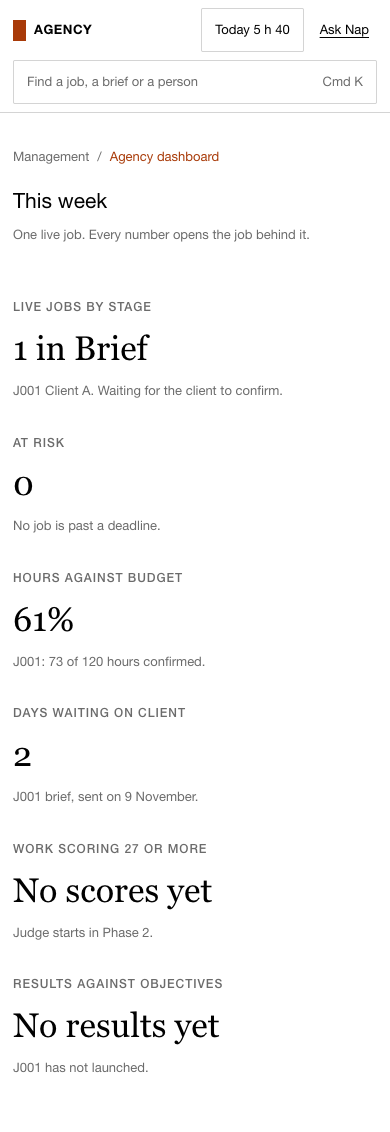
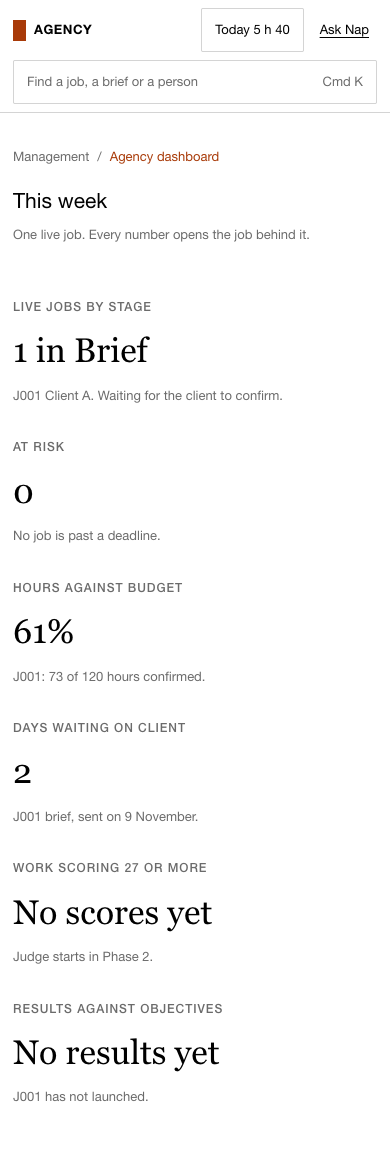
docs: fix the gaps the pre-gate review found
An em dash literal in the design build script, two wrong references, one wrong prior-art path, no-password-sign-in missing from roles-and-homes, tap targets measured on more links, and the commands that were run added to the audit.

diff --git a/docs/design/napkin.css b/docs/design/napkin.css
@@ -94,7 +94,7 @@ ul, ol { list-style: none; }
 
 /* Dashboard: six plain rows. No big number tiles, no decorative charts. Every number is a link. */
 .tiles { display: grid; grid-template-columns: repeat(3, minmax(0, 1fr)); gap: var(--s6) var(--s7); }
-.tile .n { display: block; font: 400 34px/1.15 var(--display); text-decoration: none; }
+.tile .n { display: flex; align-items: center; min-height: 44px; font: 400 34px/1.15 var(--display); text-decoration: none; }
 .tile .n:hover { text-decoration: underline; }
 
 /* Timesheet day */
@@ -136,3 +136,5 @@ ul, ol { list-style: none; }
   .index li { grid-template-columns: minmax(0,1fr); gap: var(--s1); }
 }
 @media (prefers-reduced-motion: reduce) { * { transition: none !important; animation: none !important; } }
+
+.day a, .index a { min-height: 44px; display: inline-flex; align-items: center; }

diff --git a/docs/design/build.py b/docs/design/build.py
@@ -66,7 +66,7 @@ def page(name, title, body, mode="white", person="Aoife", with_top=True):
 </body>
 </html>
 """
-    assert "—" not in html, name
+    assert chr(0x2014) not in html, name
     (OUT / name).write_text(html)
 
 

diff --git a/BUILD-LOG.md b/BUILD-LOG.md
@@ -37,13 +37,13 @@ in the worktree ../napkin-discovery. Started 00:57 UTC.
 
 **What changed.** Three commits on feat/discovery after the prompt files:
 
-- `846dd472` docs: the audit (docs/discovery, eight files) and the design proposal (docs/design, 13 pages, 26 screenshots, CHECKS.md).
+- `846dd472` docs: the audit (docs/discovery, eight files: the index and seven detail files) and the design proposal (docs/design, 13 pages, 26 screenshots, CHECKS.md).
 - `3ebed317` features: 13 records at status exploring, decisions for each default taken, open decisions in napkin-studio.clan, audit.md and open-questions.md.
 - This log.
 
 **The five hand-back items.**
 
-1. Audit: docs/discovery/audit.md, with six detail files.
+1. Audit: docs/discovery/audit.md, with seven detail files.
 2. Design proposal: docs/design/index.html. Squint and Count results in docs/design/CHECKS.md.
 3. Phase 1 records: j001-pilot-suite, roles-and-homes, agency-look, job-index-dashboard, brief-gate, client-confirm-link, visual-brief, timesheet-sessions, screen-states, brief-versions-undo, client-wall.
 4. Harness record: harness. Cannes record: cannes-removal.
@@ -80,7 +80,7 @@ frontend, desktop, engine, middleware, mock-backend, terraform, production-tool)
 
 **Re-estimate of each phase.** Discovery changes the estimate more by what it found than by what it cost.
 
-- **Phase 1.** v2 treated it as wrapping what exists. The audit shows it is new work on every line but the brief. The 13 records carry their own build estimates, which add up to about 120 working days for one builder. Run as three parallel lanes (shell, brief path, platform) that is 8 to 10 weeks, plus the owners' time to approve 13 designs and Laurence's time at the gate. It cannot start until ADR-004 is written and signed.
+- **Phase 1.** v2 treated it as wrapping what exists. The audit shows it is new work on every line but the brief. The 13 records carry their own build estimates, which add up to 123 working days for one builder (2, 10, 8, 10, 10, 10, 8, 15, 10, 10, 15, 10 and 5, in the order the records are listed above, then harness and cannes-removal). Run as three parallel lanes (shell, brief path, platform) that is 8 to 10 weeks, plus the owners' time to approve 13 designs and Laurence's time at the gate. It cannot start until ADR-004 is written and signed.
 - **Phase 2.** Not smaller than Phase 1: Idea room, Script editor, Judge out of 30, the Brain, voice, search, single sign-on and five more homes are all new, and the idea sources could not be opened. Estimate 8 to 12 weeks.
 - **Phase 3.** The largest. No outside repo is ready to wrap: Art Director Tool is a prototype, Resize covers four ratios, the outdoor repo is a different product, and the recipe runner, cost engine, tiers and ledger do not exist. Estimate 12 to 16 weeks, and it needs paid calls on.
 - **Phase 4.** Cannot be estimated: Shopper and Experiential are unaudited. Deck Maker needs its server side. Hold v2's figure.

diff --git a/docs/design/CHECKS.md b/docs/design/CHECKS.md
@@ -26,9 +26,9 @@ Measured in Chrome at both widths by a script (`docs/design/shots.mjs`).
 | Rule | Result |
 | --- | --- |
 | One primary button per screen | 10 pages have exactly one. The O, the dashboard and the index have none: their links are the actions |
-| Four type sizes or fewer, plus 12 for labels | Every page uses 13, 21, 34 or 55 px, and 12 px for uppercase labels. No page uses more than three of the four |
-| No card inside a card | None. One rectangle exists, around the visual brief |
-| Tap targets 44 px or more | No button, door, chip or text link is under 44 px, at either width |
+| Four type sizes or fewer, plus 12 for labels | Every page uses 13, 21, 34 or 55 px, and 12 px for uppercase labels. No page uses more than three of the four. The script prints the sizes and fails on any other |
+| No card inside a card | None. One content card exists, around the visual brief. Buttons, the bar and the chip have borders; nothing sits inside another bordered box |
+| Tap targets 44 px or more | No button, door, chip, top-bar link, tile link, list link or More tools link is under 44 px, at either width. Links inside a sentence are not counted: WCAG exempts them |
 | No sideways scroll | 0 px overflow on all 26 screenshots |
 | Nothing moves | The pages have no animation or transition |
 | No em dashes | The build script refuses to write a page that contains one |
@@ -65,6 +65,6 @@ lightness is set per mode. That is what v2 section 5 asks for ("adjust its light
 
 1. **Needs you sits above the doors.** v2 lists doors first. I put the work first, because a home's job is to say what is waiting. Swap it back if the doors should lead.
 2. **The dashboard has no chart and no large coloured tile.** v2's Never list rules out big number tiles with decorative charts. The six tiles are a label, one number in display type, and one line naming the job.
-3. **The brief is signed before the client confirms it.** The repo's contract only allows a client's answer on a locked document. v2 has the client confirm first. See open question 4 in docs/discovery/open-questions.md.
+3. **The brief is signed before the client confirms it.** The repo's contract only allows a client's answer on a locked document. v2 has the client confirm first. See question 2 in docs/discovery/open-questions.md.
 4. **The O has no primary button.** The circles are the actions.
 5. **J001 is shown as Client A**, and the agency is a placeholder. The repo never commits client material.

diff --git a/docs/discovery/audit.md b/docs/discovery/audit.md
@@ -94,6 +94,32 @@ The suite itself is the first record: j001-pilot-suite.
 | Meeting notes to actions | No | Skip for v1 |
 | New business tracker | No. J001 is a live job, not a pitch | Skip for v1 |
 
+## What was run, and the command that proved it
+
+The prompt asks for the command behind each claim. Most of this audit is from reading code,
+and says so. These are the commands that were actually run.
+
+| Area | Command | Result |
+| --- | --- | --- |
+| The whole repo | `scripts/check.sh --all` (uv 0.13.7) | Ten suites pass: rust, wasm, conformance, frontend, desktop, engine, middleware, mock-backend, terraform, production-tool |
+| Feature records | `scripts/feature verify` | Passes for every record |
+| Brief Maker, Research, the shell | Covered by the frontend, middleware and engine suites above. No test was run on its own | The brief-path subagent's one attempt failed on the old uv |
+| Production Tool relay | `cd production-tool/relay && uv run pytest tests/test_mock.py` | 19 passed |
+| Deck Maker engine | `cd engine && PYTHONPATH=. python3 -m pytest -q deck/tests/test_validate.py` | 32 passed |
+| mock-agent | `python3 -m pytest mock-agent/test_mock_agent.py` | 4 passed |
+| napkin-art-director | `node --test *.test.mjs *.test.cjs` | 77 pass, 3 skipped |
+| Resize | `node --test` | 86 pass |
+| napkin-radio | `npm run test:access`, `npx tsc --noEmit`, `npm run build` | 4 of 4, clean, built |
+| napkin-audio | `npm test`, `npm run build` | 34 of 34, built |
+| awards-board-maker | `python -m unittest discover -s tests`, `node tests/image_craft_test.js` | 75 run with 1 error, 18 of 18 |
+| idea-to-ooh-studio | `npm run build` | Fails on two type errors |
+| e2e | Not run. It needs a browser download and is not part of `--all` | The existing specs' widths were read from the code |
+
+**Phase 1 repos in depth.** The prompt asks for the Phase 1 outside repos to be checked in
+depth. Phase 1 names two: napkin-timesheet and napkin-timesheet-traffic. Neither can be
+opened with this login, so no outside repo got an in-depth check. All seven that could be
+opened belong to Phase 3 or 4 and got the 15-minute triage.
+
 ## Could not verify, and why
 
 - **Eleven outside repos.** GitHub answers Not Found for this login (docs/sources/repos.md). Shopper, experiential, timesheets, the canon and three deck repos are unaudited.
